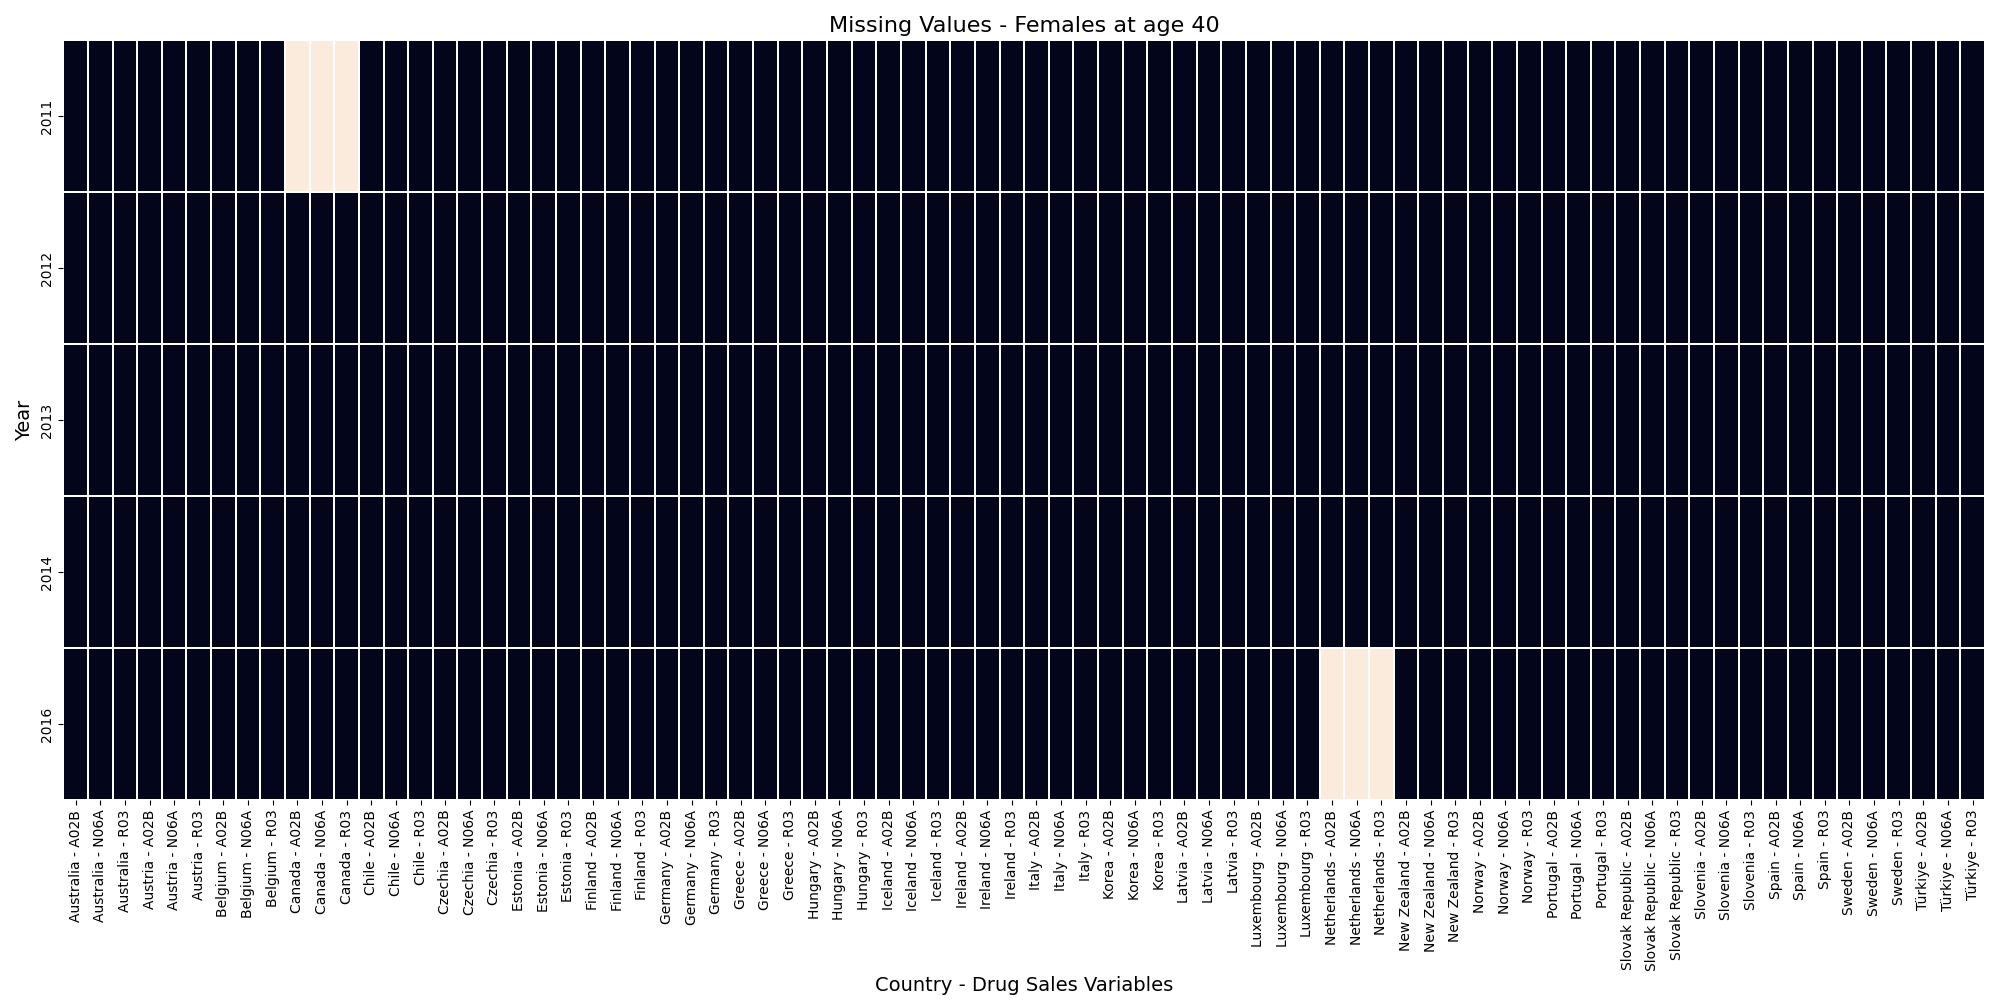
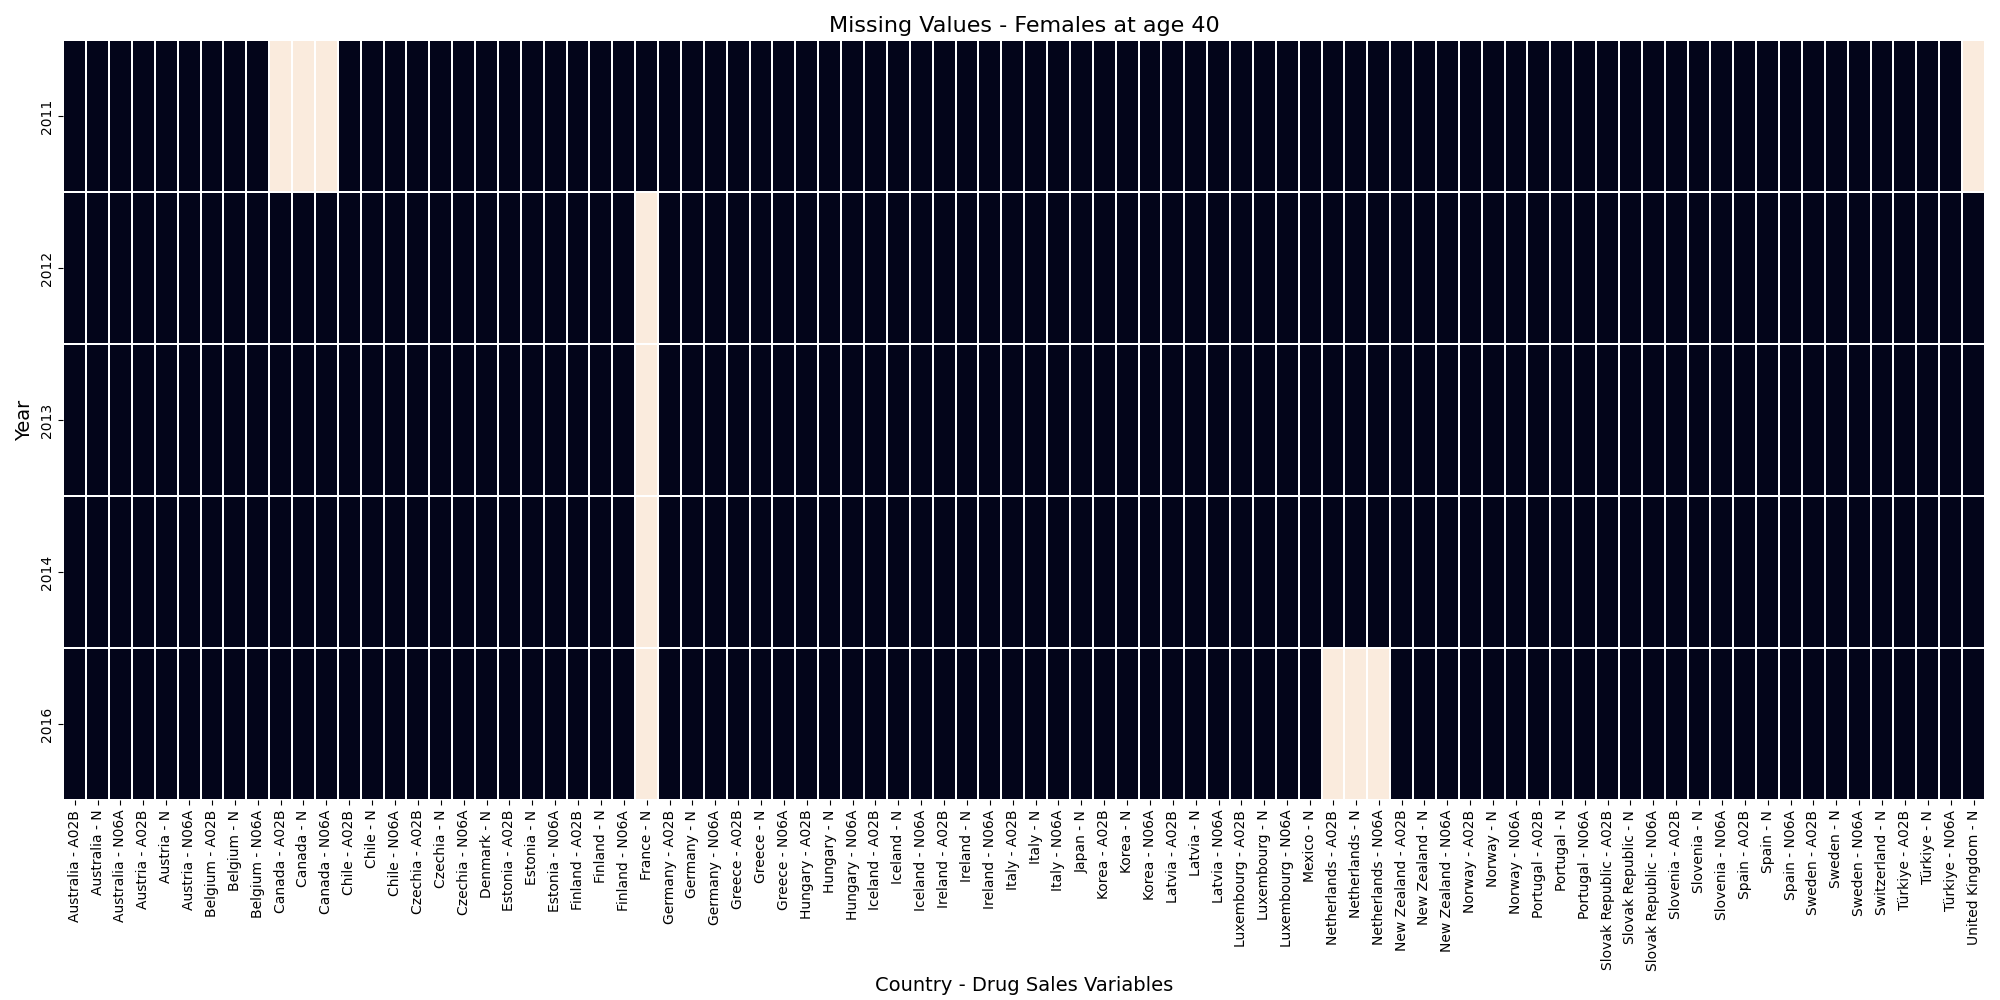
changed R03 to N

Changed region(s): [[0.031, 0.031, 0.992, 0.961]]

diff --git a/data_visualization/visualize_missing_data_life_expectancy_pharmaceutical_sales.py b/data_visualization/visualize_missing_data_life_expectancy_pharmaceutical_sales.py
@@ -6,13 +6,15 @@ import os
 variables = [
   'N06A-Antidepressants',
   'A02B-Drugs for peptic ulcer and gastro-oesophageal reflux diseases (GORD)',
-  'R03-Drugs for obstructive airway diseases'
+  # 'R03-Drugs for obstructive airway diseases',
+  'N-Nervous system'
 ]
 
 variable_codes = {
   'N06A-Antidepressants': 'N06A',
   'A02B-Drugs for peptic ulcer and gastro-oesophageal reflux diseases (GORD)': 'A02B',
-  'R03-Drugs for obstructive airway diseases': 'R03'
+  'R03-Drugs for obstructive airway diseases': 'R03',
+  'N-Nervous system': 'N'
 }
 
 oecd_countries = [
@@ -28,7 +30,7 @@ base_dir = '../data/'  # Update this to the path where your CSV files are stored
 
 # Read and filter both dataframes
 life_expectancy_df = pd.read_csv(os.path.join(base_dir, 'life_expectancy.csv'))
-pharmaceutical_sales_df = pd.read_csv(os.path.join(base_dir, 'pharmaceutical_sales.csv'))
+pharmaceutical_sales_df = pd.read_csv(os.path.join(base_dir, 'pharma_sales_ppp.csv'))
 
 # Filter for OECD countries in both dataframes
 life_expectancy_df = life_expectancy_df[life_expectancy_df["Country"].isin(oecd_countries)]
